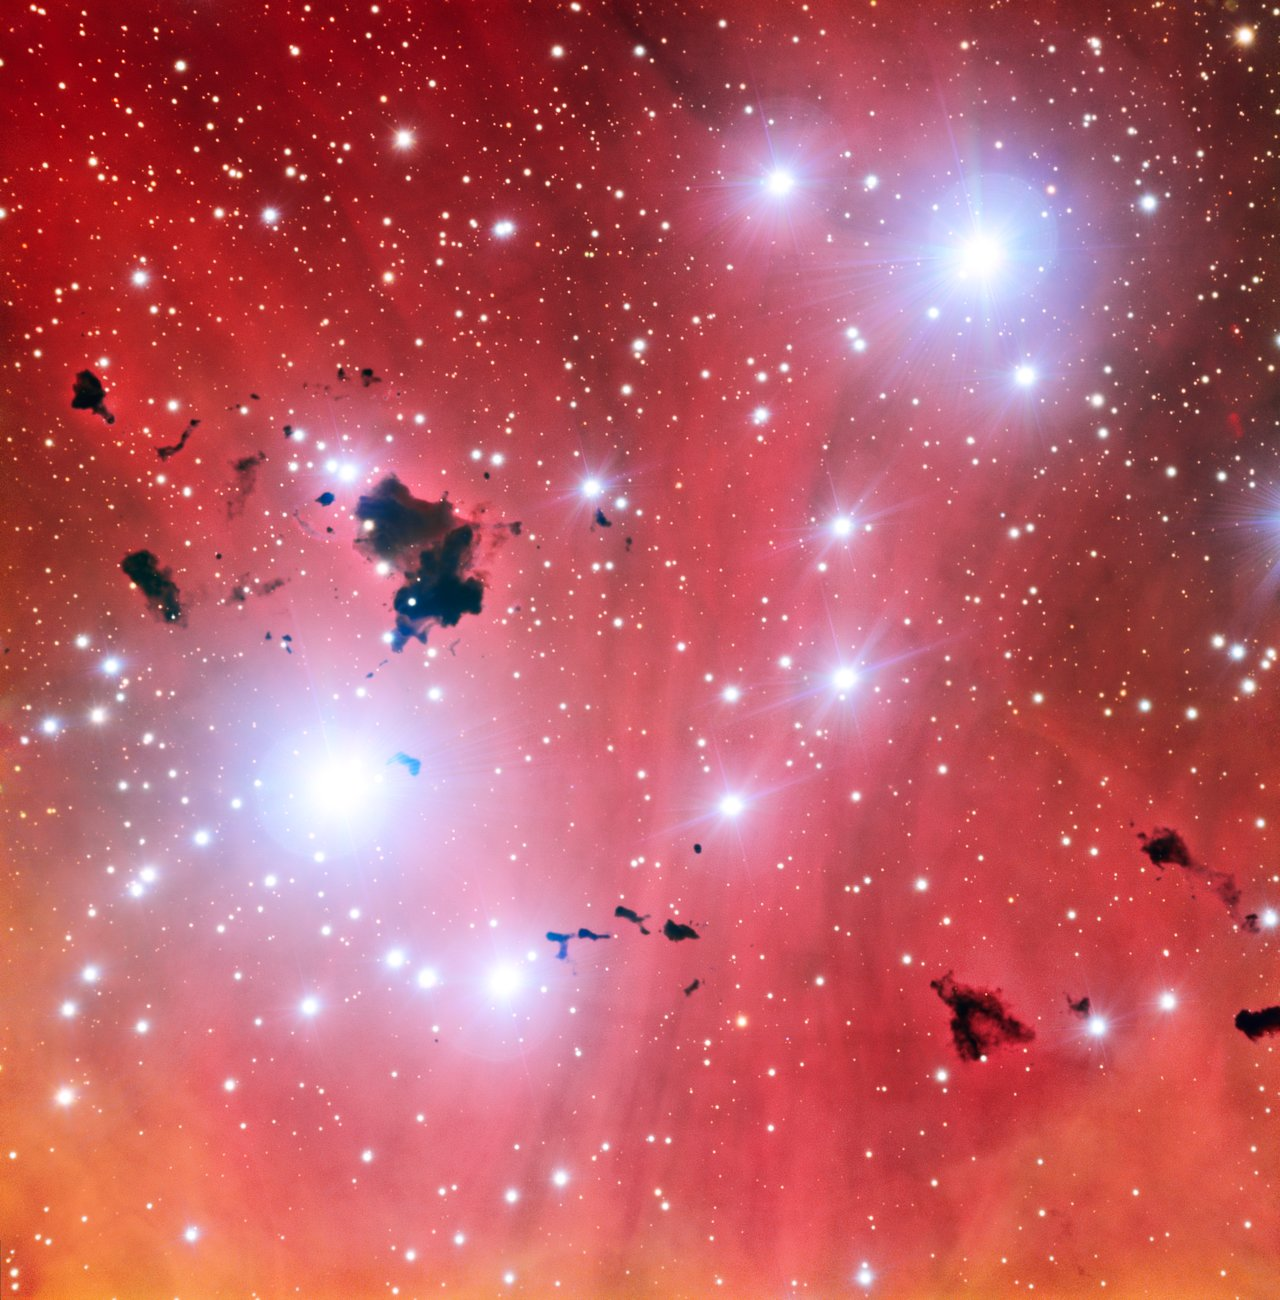
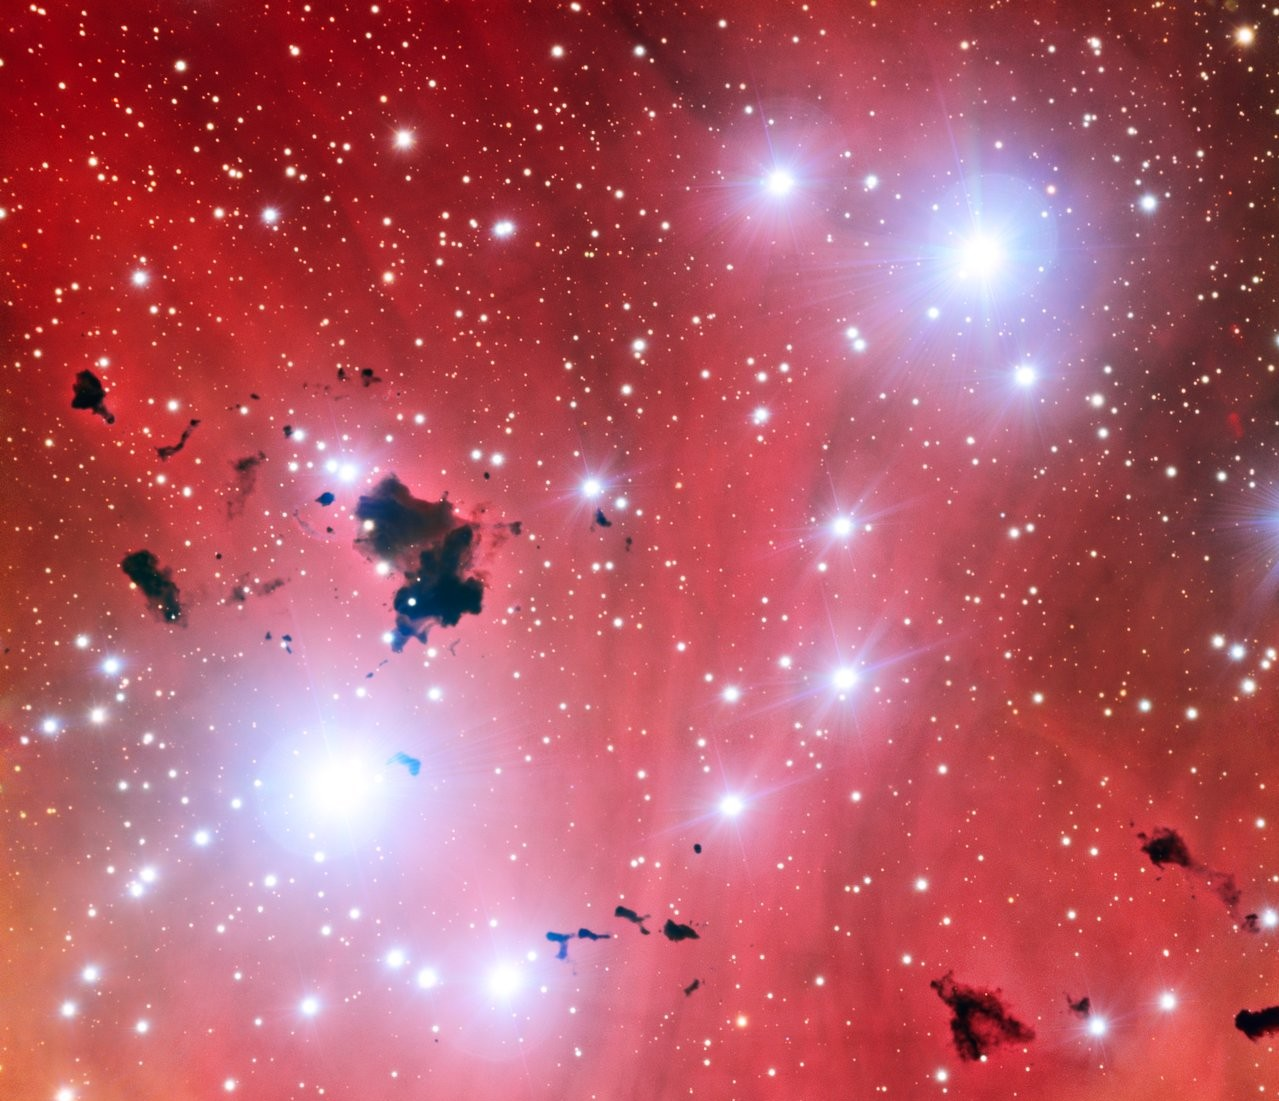
styles added

diff --git a/flex/flex-layouts/src/app/app.component.ts b/flex/flex-layouts/src/app/app.component.ts
@@ -7,5 +7,5 @@ import { Component } from '@angular/core';
 })
 export class AppComponent {
   title = 'flex-layouts';
-  pics= [ "/assets/w1.jpeg","/assets/eso.jpg","/assets/w1.jpeg","/assets/jumbotron_768.jpg"] 
+  pics= [ "/assets/w1.jpeg","/assets/eso.jpg","/assets/w1.jpeg","/assets/jumbotron_1200.jpg"] 
 }

diff --git a/flex/flex-layouts/src/app/app.component.css b/flex/flex-layouts/src/app/app.component.css
@@ -2,5 +2,6 @@
     
     width: 100%;
     height: 700px;
+    object-fit: contain;
 }
 
